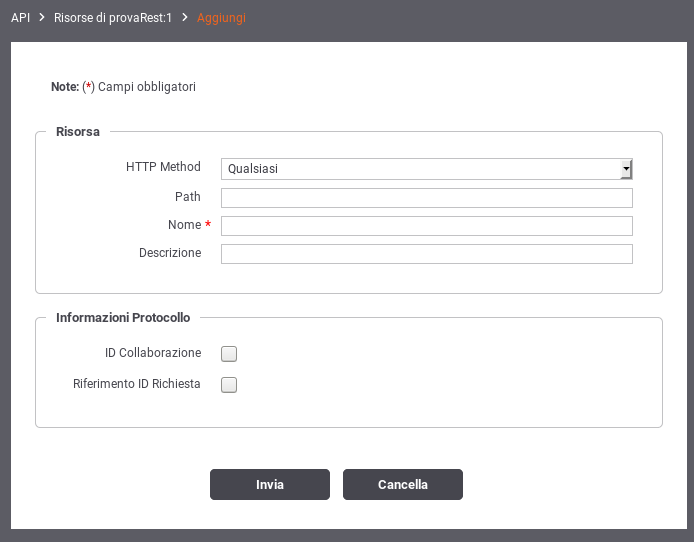
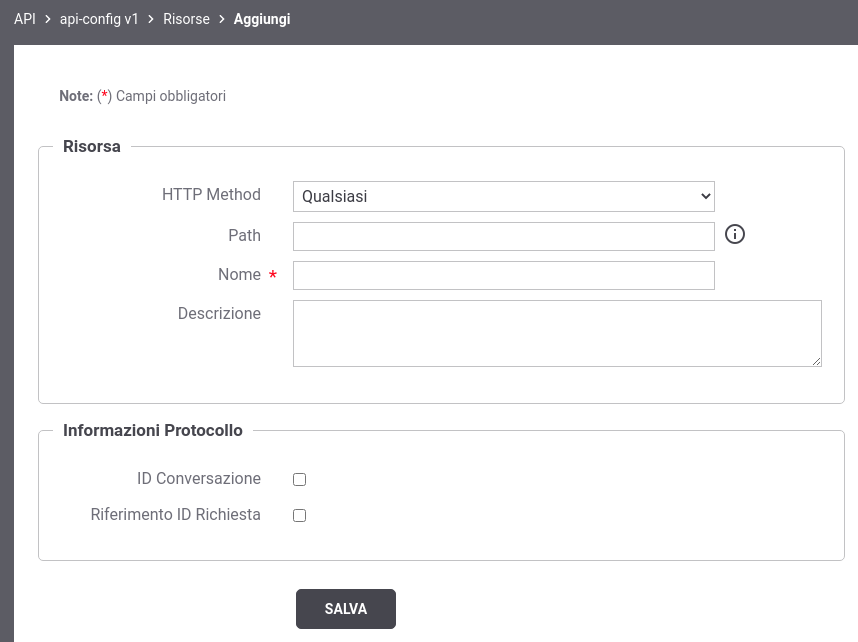
[GovWayCore, GovWayConsole, GovWayMonitor] La funzionalità 'ID Collaborazione' è stata ridenominata in 'ID Conversazione'. Inoltre, se abilitata, l'header HTTP GovWay-Conversion-ID viene adesso sempre generato, anche nella richiesta capostipite della conversazione dove viene valorizzato con l'id di 

diff --git a/core/src/org/openspcoop2/pdd/mdb/Imbustamento.java b/core/src/org/openspcoop2/pdd/mdb/Imbustamento.java
@@ -68,6 +68,7 @@ import org.openspcoop2.protocol.sdk.constants.CodiceErroreIntegrazione;
 import org.openspcoop2.protocol.sdk.constants.ErroreIntegrazione;
 import org.openspcoop2.protocol.sdk.constants.ErroriIntegrazione;
 import org.openspcoop2.protocol.sdk.constants.FunzionalitaProtocollo;
+import org.openspcoop2.protocol.sdk.constants.InitialIdConversationType;
 import org.openspcoop2.protocol.sdk.constants.Inoltro;
 import org.openspcoop2.protocol.sdk.constants.IntegrationFunctionError;
 import org.openspcoop2.protocol.sdk.constants.TipoOraRegistrazione;
@@ -338,6 +339,16 @@ public class Imbustamento extends GenericLib{
 				idCollaborazione = this.propertiesReader.isGestioneElementoCollaborazione(implementazionePdDDestinatario) && infoServizio.getCollaborazione();
 				break;
 			}
+			String idCollaborazioneCapostipite = null;
+			if(idCollaborazione) {
+				InitialIdConversationType initial = protocolFactory.createProtocolConfiguration().isGenerateInitialIdConversation(TipoPdD.DELEGATA, FunzionalitaProtocollo.COLLABORAZIONE);
+				if(InitialIdConversationType.ID_TRANSAZIONE.equals(initial)) {
+					idCollaborazioneCapostipite = idTransazione;
+				}
+				else if(InitialIdConversationType.ID_MESSAGGIO.equals(initial)) {
+					idCollaborazioneCapostipite = idMessageRequest;
+				}
+			}
 			
 			boolean idRiferimentoMessaggioRichiesta = false;
 			switch (protocolManager.getIdRiferimentoRichiesta(infoServizio)) {
@@ -554,7 +565,7 @@ public class Imbustamento extends GenericLib{
 					if(imbustamentoMsg.getIdCollaborazione()!=null)
 						busta.setCollaborazione(imbustamentoMsg.getIdCollaborazione());
 					else
-						busta.setCollaborazione(idMessageRequest);
+						busta.setCollaborazione(idCollaborazioneCapostipite);
 				}
 				
 				// RiferimentoMessaggio
@@ -618,7 +629,7 @@ public class Imbustamento extends GenericLib{
 					if(imbustamentoMsg.getIdCollaborazione()!=null)
 						busta.setCollaborazione(imbustamentoMsg.getIdCollaborazione());
 					else
-						busta.setCollaborazione(idMessageRequest);
+						busta.setCollaborazione(idCollaborazioneCapostipite);
 				}
 				
 				// RiferimentoMessaggio
@@ -724,7 +735,7 @@ public class Imbustamento extends GenericLib{
 						if(imbustamentoMsg.getIdCollaborazione()!=null)
 							busta.setCollaborazione(imbustamentoMsg.getIdCollaborazione());
 						else
-							busta.setCollaborazione(idMessageRequest);
+							busta.setCollaborazione(idCollaborazioneCapostipite);
 					}
 
 					// registrazione richiesta asincrona simmetrica
@@ -891,7 +902,7 @@ public class Imbustamento extends GenericLib{
 						if(imbustamentoMsg.getIdCollaborazione()!=null)
 							busta.setCollaborazione(imbustamentoMsg.getIdCollaborazione());
 						else
-							busta.setCollaborazione(idMessageRequest);
+							busta.setCollaborazione(idCollaborazioneCapostipite);
 					}
 
 					// registrazione richiesta asincrona asimmetrica

diff --git a/core/src/org/openspcoop2/pdd/services/core/RicezioneBuste.java b/core/src/org/openspcoop2/pdd/services/core/RicezioneBuste.java
@@ -204,6 +204,7 @@ import org.openspcoop2.protocol.sdk.constants.ErroriIntegrazione;
 import org.openspcoop2.protocol.sdk.constants.FaseImbustamento;
 import org.openspcoop2.protocol.sdk.constants.FaseSbustamento;
 import org.openspcoop2.protocol.sdk.constants.FunzionalitaProtocollo;
+import org.openspcoop2.protocol.sdk.constants.InitialIdConversationType;
 import org.openspcoop2.protocol.sdk.constants.Inoltro;
 import org.openspcoop2.protocol.sdk.constants.IntegrationFunctionError;
 import org.openspcoop2.protocol.sdk.constants.LivelloRilevanza;
@@ -2090,6 +2091,7 @@ public class RicezioneBuste {
 				if(headerIntegrazioneRichiesta!=null && headerIntegrazioneRichiesta.getBusta()!=null 
 						&& headerIntegrazioneRichiesta.getBusta().getRiferimentoMessaggio()!=null) {
 					bustaURLMapping.setRiferimentoMessaggio(headerIntegrazioneRichiesta.getBusta().getRiferimentoMessaggio());
+					this.msgContext.getProtocol().setRiferimentoAsincrono(headerIntegrazioneRichiesta.getBusta().getRiferimentoMessaggio());
 				}
 			}
 			TipoOraRegistrazione tipoOraRegistrazione = propertiesReader.getTipoTempoBusta(null);
@@ -2301,7 +2303,27 @@ public class RicezioneBuste {
 		idServizio = validatore.getIDServizio();
 		Busta bustaRichiesta = validatore.getBusta();
 		BustaRawContent<?> soapHeaderElement = validatore.getHeaderProtocollo();
-
+		
+		if(bustaRichiesta!=null) {
+			try{
+				if(infoServizio.getCollaborazione() && bustaRichiesta.getCollaborazione()==null) {
+					InitialIdConversationType initial = protocolFactory.createProtocolConfiguration().isGenerateInitialIdConversation(TipoPdD.APPLICATIVA, FunzionalitaProtocollo.COLLABORAZIONE);
+					if(InitialIdConversationType.ID_TRANSAZIONE.equals(initial)) {
+						bustaRichiesta.setCollaborazione(idTransazione);
+					}
+					else if(InitialIdConversationType.ID_MESSAGGIO.equals(initial)) {
+						bustaRichiesta.setCollaborazione(bustaRichiesta.getID());
+					}
+				}
+			}catch(Exception e){
+				setSOAPFault_processamento(IntegrationFunctionError.INTERNAL_REQUEST_ERROR,logCore,msgDiag,
+						ErroriIntegrazione.ERRORE_5XX_GENERICO_PROCESSAMENTO_MESSAGGIO.
+						get5XX_ErroreProcessamento(CodiceErroreIntegrazione.CODICE_536_CONFIGURAZIONE_NON_DISPONIBILE),e,
+						"setCollaborazione");
+				openspcoopstate.releaseResource();
+				return;
+			}
+		}
 		
 		
 		

diff --git a/tools/web_interfaces/control_station/src/org/openspcoop2/web/ctrlstat/servlet/apc/AccordiServizioParteComuneHelper.java b/tools/web_interfaces/control_station/src/org/openspcoop2/web/ctrlstat/servlet/apc/AccordiServizioParteComuneHelper.java
@@ -933,7 +933,7 @@ public class AccordiServizioParteComuneHelper extends ConnettoriHelper {
 					return false;
 				}
 				if ((idcollop != null) && !idcollop.equals(Costanti.CHECK_BOX_ENABLED) && !idcollop.equals(CostantiRegistroServizi.ABILITATO) && !idcollop.equals(Costanti.CHECK_BOX_DISABLED) && !idcollop.equals(CostantiRegistroServizi.DISABILITATO)) {
-					this.pd.setMessage("ID Collaborazione dev'essere selezionata o deselezionata");
+					this.pd.setMessage("ID Conversazione dev'essere selezionata o deselezionata");
 					return false;
 				}
 				if ((idRifRichiestaOp != null) && !idRifRichiestaOp.equals(Costanti.CHECK_BOX_ENABLED) && !idRifRichiestaOp.equals(CostantiRegistroServizi.ABILITATO) && !idRifRichiestaOp.equals(Costanti.CHECK_BOX_DISABLED) && !idRifRichiestaOp.equals(CostantiRegistroServizi.DISABILITATO)) {
@@ -4972,7 +4972,7 @@ public class AccordiServizioParteComuneHelper extends ConnettoriHelper {
 				return false;
 			}
 			if ((idcoll != null) && !idcoll.equals(Costanti.CHECK_BOX_ENABLED) && !idcoll.equals(CostantiRegistroServizi.ABILITATO) && !idcoll.equals(Costanti.CHECK_BOX_DISABLED) && !idcoll.equals(CostantiRegistroServizi.DISABILITATO)) {
-				this.pd.setMessage("ID Collaborazione dev'essere selezionata o deselezionata");
+				this.pd.setMessage("ID Conversazione dev'essere selezionata o deselezionata");
 				return false;
 			}
 			if ((idRifRichiesta != null) && !idRifRichiesta.equals(Costanti.CHECK_BOX_ENABLED) && !idRifRichiesta.equals(CostantiRegistroServizi.ABILITATO) && !idRifRichiesta.equals(Costanti.CHECK_BOX_DISABLED) && !idRifRichiesta.equals(CostantiRegistroServizi.DISABILITATO)) {

diff --git a/core/src/org/openspcoop2/protocol/sdk/config/IProtocolConfiguration.java b/core/src/org/openspcoop2/protocol/sdk/config/IProtocolConfiguration.java
@@ -31,6 +31,7 @@ import org.openspcoop2.protocol.sdk.BypassMustUnderstandCheck;
 import org.openspcoop2.protocol.sdk.IComponentFactory;
 import org.openspcoop2.protocol.sdk.ProtocolException;
 import org.openspcoop2.protocol.sdk.constants.FunzionalitaProtocollo;
+import org.openspcoop2.protocol.sdk.constants.InitialIdConversationType;
 import org.openspcoop2.protocol.sdk.constants.ProfiloDiCollaborazione;
 import org.openspcoop2.protocol.sdk.registry.IRegistryReader;
 import org.openspcoop2.protocol.sdk.registry.RegistryNotFound;
@@ -180,6 +181,13 @@ public interface IProtocolConfiguration extends IComponentFactory {
 	 * @return True se la funzionalita' richiede che venga fornita l'informazione tramite i meccanismi di integrazione
 	 */
 	public boolean isIntegrationInfoRequired(TipoPdD tipoPdD, ServiceBinding serviceBinding, FunzionalitaProtocollo funzionalitaProtocollo) throws ProtocolException;
+	
+	/**
+	 * Restituisce l'indicazione se generare un id di collaborazione capostipite, quando la funzionalita' è abilitata e non viene fornito un identificativo tra i meccanismi di integrazione 
+	 * 
+	 * @return True se la funzionalita' genera un id di collaborazione capostipite
+	 */
+	public InitialIdConversationType isGenerateInitialIdConversation(TipoPdD tipoPdD, FunzionalitaProtocollo funzionalitaProtocollo) throws ProtocolException;
 		
 	/**
 	 * Ritorna l'indicazione se l'autenticazione dei soggetti viene supportato dal protocollo

diff --git a/core/src/org/openspcoop2/protocol/sdk/constants/InitialIdConversationType.java b/core/src/org/openspcoop2/protocol/sdk/constants/InitialIdConversationType.java
@@ -2,7 +2,7 @@
  * GovWay - A customizable API Gateway 
  * https://govway.org
  * 
- * Copyright (c) 2005-2021 Link.it srl (https://link.it).
+ * Copyright (c) 2005-2020 Link.it srl (https://link.it). 
  * 
  * This program is free software: you can redistribute it and/or modify
  * it under the terms of the GNU General Public License version 3, as published by
@@ -17,27 +17,19 @@
  * along with this program.  If not, see <http://www.gnu.org/licenses/>.
  *
  */
-package org.openspcoop2.web.monitor.core.constants;
+
+package org.openspcoop2.protocol.sdk.constants;
+
 
 /**
- * TipoMessaggio
- * 
- * @author Pintori Giuliano (pintori@link.it)
+ *  InitialIdConversationType
+ *
+ * @author Poli Andrea (apoli@link.it)
  * @author $Author$
  * @version $Rev$, $Date$
- *
  */
-public enum TipoMessaggio {
+public enum InitialIdConversationType {
 
-	Richiesta("Richiesta"), Risposta("Risposta"), Collaborazione("Conversazione"), RiferimentoRichiesta("Riferimento Richiesta");
-	
-	private String label;
-	TipoMessaggio(String label) {
-		this.label = label;
-	}
-	
-	public String getLabel() {
-		return this.label;
-	}
+	DISABILITATO, ID_MESSAGGIO, ID_TRANSAZIONE;
 	
 }

diff --git a/protocolli/spcoop/src/org/openspcoop2/protocol/spcoop/config/SPCoopProtocolConfiguration.java b/protocolli/spcoop/src/org/openspcoop2/protocol/spcoop/config/SPCoopProtocolConfiguration.java
@@ -20,9 +20,12 @@
 
 package org.openspcoop2.protocol.spcoop.config;
 
+import org.openspcoop2.core.constants.TipoPdD;
 import org.openspcoop2.protocol.basic.config.BasicConfiguration;
 import org.openspcoop2.protocol.sdk.IProtocolFactory;
 import org.openspcoop2.protocol.sdk.ProtocolException;
+import org.openspcoop2.protocol.sdk.constants.FunzionalitaProtocollo;
+import org.openspcoop2.protocol.sdk.constants.InitialIdConversationType;
 
 /**
  * Classe che implementa, in base al protocollo SPCoop, l'interfaccia {@link org.openspcoop2.protocol.sdk.config.IProtocolConfiguration} 
@@ -35,6 +38,16 @@ public class SPCoopProtocolConfiguration extends BasicConfiguration {
 
 	public SPCoopProtocolConfiguration(IProtocolFactory<?> factory) throws ProtocolException {
 		super(factory);
+	}
+	
+	@Override
+	public InitialIdConversationType isGenerateInitialIdConversation(TipoPdD tipoPdD, FunzionalitaProtocollo funzionalitaProtocollo) throws ProtocolException{
+		if(TipoPdD.DELEGATA.equals(tipoPdD)) {
+			return InitialIdConversationType.ID_MESSAGGIO;
+		}
+		else {
+			return InitialIdConversationType.DISABILITATO;
+		}
 	}
 	
 	@Override

diff --git a/core/src/org/openspcoop2/protocol/basic/config/BasicConfiguration.java b/core/src/org/openspcoop2/protocol/basic/config/BasicConfiguration.java
@@ -43,6 +43,7 @@ import org.openspcoop2.protocol.sdk.BypassMustUnderstandCheck;
 import org.openspcoop2.protocol.sdk.IProtocolFactory;
 import org.openspcoop2.protocol.sdk.ProtocolException;
 import org.openspcoop2.protocol.sdk.constants.FunzionalitaProtocollo;
+import org.openspcoop2.protocol.sdk.constants.InitialIdConversationType;
 import org.openspcoop2.protocol.sdk.constants.ProfiloDiCollaborazione;
 import org.openspcoop2.protocol.sdk.registry.IRegistryReader;
 import org.openspcoop2.protocol.sdk.registry.RegistryNotFound;
@@ -422,6 +423,11 @@ public class BasicConfiguration extends BasicComponentFactory implements org.ope
 	@Override
 	public boolean isIntegrationInfoRequired(TipoPdD tipoPdD, ServiceBinding serviceBinding, FunzionalitaProtocollo funzionalitaProtocollo) throws ProtocolException{
 		return false;
+	}
+	
+	@Override
+	public InitialIdConversationType isGenerateInitialIdConversation(TipoPdD tipoPdD, FunzionalitaProtocollo funzionalitaProtocollo) throws ProtocolException{
+		return InitialIdConversationType.ID_TRANSAZIONE;
 	}
 	
 	@Override

diff --git a/tools/web_interfaces/control_station/src/org/openspcoop2/web/ctrlstat/servlet/apc/AccordiServizioParteComuneCostanti.java b/tools/web_interfaces/control_station/src/org/openspcoop2/web/ctrlstat/servlet/apc/AccordiServizioParteComuneCostanti.java
@@ -481,7 +481,7 @@ public class AccordiServizioParteComuneCostanti {
 	public final static String LABEL_PARAMETRO_APC_UTILIZZO_SENZA_AZIONE = "Utilizzo Senza Azione";
 	public final static String LABEL_PARAMETRO_APC_FILTRO_DUPLICATI = "Filtro Duplicati";
 	public final static String LABEL_PARAMETRO_APC_CONFERMA_RICEZIONE = "Conferma Ricezione";
-	public final static String LABEL_PARAMETRO_APC_COLLABORAZIONE = "ID Collaborazione";
+	public final static String LABEL_PARAMETRO_APC_COLLABORAZIONE = "ID Conversazione";
 	public final static String LABEL_PARAMETRO_APC_ID_RIFERIMENTO_RICHIESTA = "Riferimento ID Richiesta";
 	public final static String LABEL_PARAMETRO_APC_CONSEGNA_ORDINE = "Consegna in Ordine";
 	public final static String LABEL_PARAMETRO_APC_SCADENZA = "Scadenza";

diff --git a/core/src/org/openspcoop2/pdd/core/ProtocolContext.java b/core/src/org/openspcoop2/pdd/core/ProtocolContext.java
@@ -64,6 +64,9 @@ public class ProtocolContext implements Serializable {
 	
 	/** Identificativo collaborazione */
 	private String collaborazione;
+	
+	/** Riferimento Asincrono */
+	private String riferimentoAsincrono;
 
 	/** Informazioni sul servizio e azione */
 	private IDAccordo idAccordo;
@@ -162,6 +165,12 @@ public class ProtocolContext implements Serializable {
 	}
 	public void setCollaborazione(String collaborazione) {
 		this.collaborazione = collaborazione;
+	}
+	public String getRiferimentoAsincrono() {
+		return this.riferimentoAsincrono;
+	}
+	public void setRiferimentoAsincrono(String riferimentoAsincrono) {
+		this.riferimentoAsincrono = riferimentoAsincrono;
 	}
 	public String getTipoServizio() {
 		return this.tipoServizio;

diff --git a/tools/web_interfaces/monitor/src/src_transazioni/org/openspcoop2/web/monitor/transazioni/exporter/CostantiExport.java b/tools/web_interfaces/monitor/src/src_transazioni/org/openspcoop2/web/monitor/transazioni/exporter/CostantiExport.java
@@ -189,7 +189,7 @@ public class CostantiExport {
 	public static final String LABEL_COL_DATA_ID_MSG_RISPOSTA = "Data ID Messaggio Risposta";
 	public static final String LABEL_COL_PROFILO_COLLABORAZIONE_OP2 = "Profilo Collaborazione Op2";
 	public static final String LABEL_COL_PROFILO_COLLABORAZIONE_PROT = "Profilo Collaborazione";
-	public static final String LABEL_COL_ID_COLLABORAZIONE = "ID Collaborazione";
+	public static final String LABEL_COL_ID_COLLABORAZIONE = "ID Conversazione";
 	public static final String LABEL_COL_URI_ACCORDO_SERVIZIO = "Uri API";
 	public static final String LABEL_COL_TIPO_API = "Tipo API";
 	public static final String LABEL_COL_TAGS = "Tags";

diff --git a/core/src/org/openspcoop2/pdd/services/core/RicezioneContenutiApplicativi.java b/core/src/org/openspcoop2/pdd/services/core/RicezioneContenutiApplicativi.java
@@ -3487,6 +3487,7 @@ public class RicezioneContenutiApplicativi {
 			if (headerIntegrazioneRichiesta!=null &&
 					headerIntegrazioneRichiesta.getBusta() != null && headerIntegrazioneRichiesta.getBusta().getRiferimentoMessaggio() != null) {
 				riferimentoRichiesta = headerIntegrazioneRichiesta.getBusta().getRiferimentoMessaggio();
+				this.msgContext.getProtocol().setRiferimentoAsincrono(riferimentoRichiesta);
 			}
 			if(riferimentoRichiesta==null) {
 				StringBuilder bf = new StringBuilder();

diff --git a/core/src/org/openspcoop2/pdd/core/handlers/transazioni/PostOutResponseHandler_TransazioneUtilities.java b/core/src/org/openspcoop2/pdd/core/handlers/transazioni/PostOutResponseHandler_TransazioneUtilities.java
@@ -772,6 +772,11 @@ public class PostOutResponseHandler_TransazioneUtilities {
 						transactionDTO.setIdAsincrono(tracciaRichiesta.getBusta().getRiferimentoMessaggio());
 					}
 				}
+				if(transactionDTO.getIdAsincrono()==null) {
+					if (context.getProtocollo()!=null){
+						transactionDTO.setIdAsincrono(context.getProtocollo().getRiferimentoAsincrono());
+					}
+				}
 			}
 
 			// ** info protocollo **
